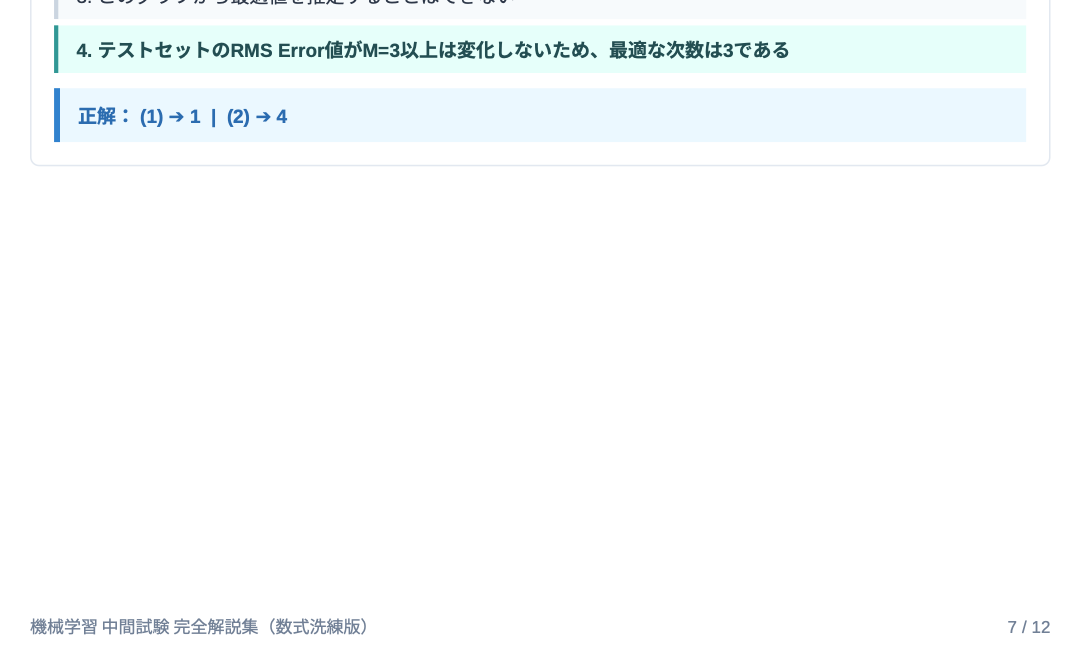
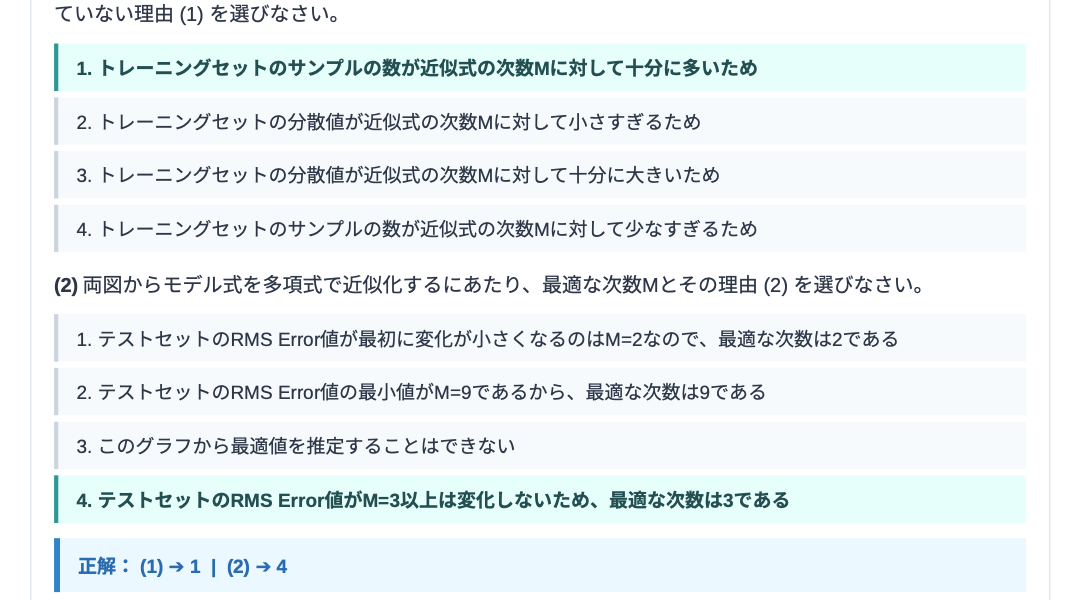
fix: adjust crop coordinates to accurately extract only the RMS Error charts on page 7

diff --git a/3年前期中間試験/機械学習テスト/crop_q4_chart.py b/3年前期中間試験/機械学習テスト/crop_q4_chart.py
@@ -45,4 +45,4 @@ def crop_section(image_path, y_start, y_end, output_path):
 
 if __name__ == "__main__":
     os.makedirs("extracted_images", exist_ok=True)
-    crop_section("rendered_pages/page_7.png", 1000, 1683, "extracted_images/q4_3_chart.png")
+    crop_section("rendered_pages/page_7.png", 550, 1150, "extracted_images/q4_3_chart.png")